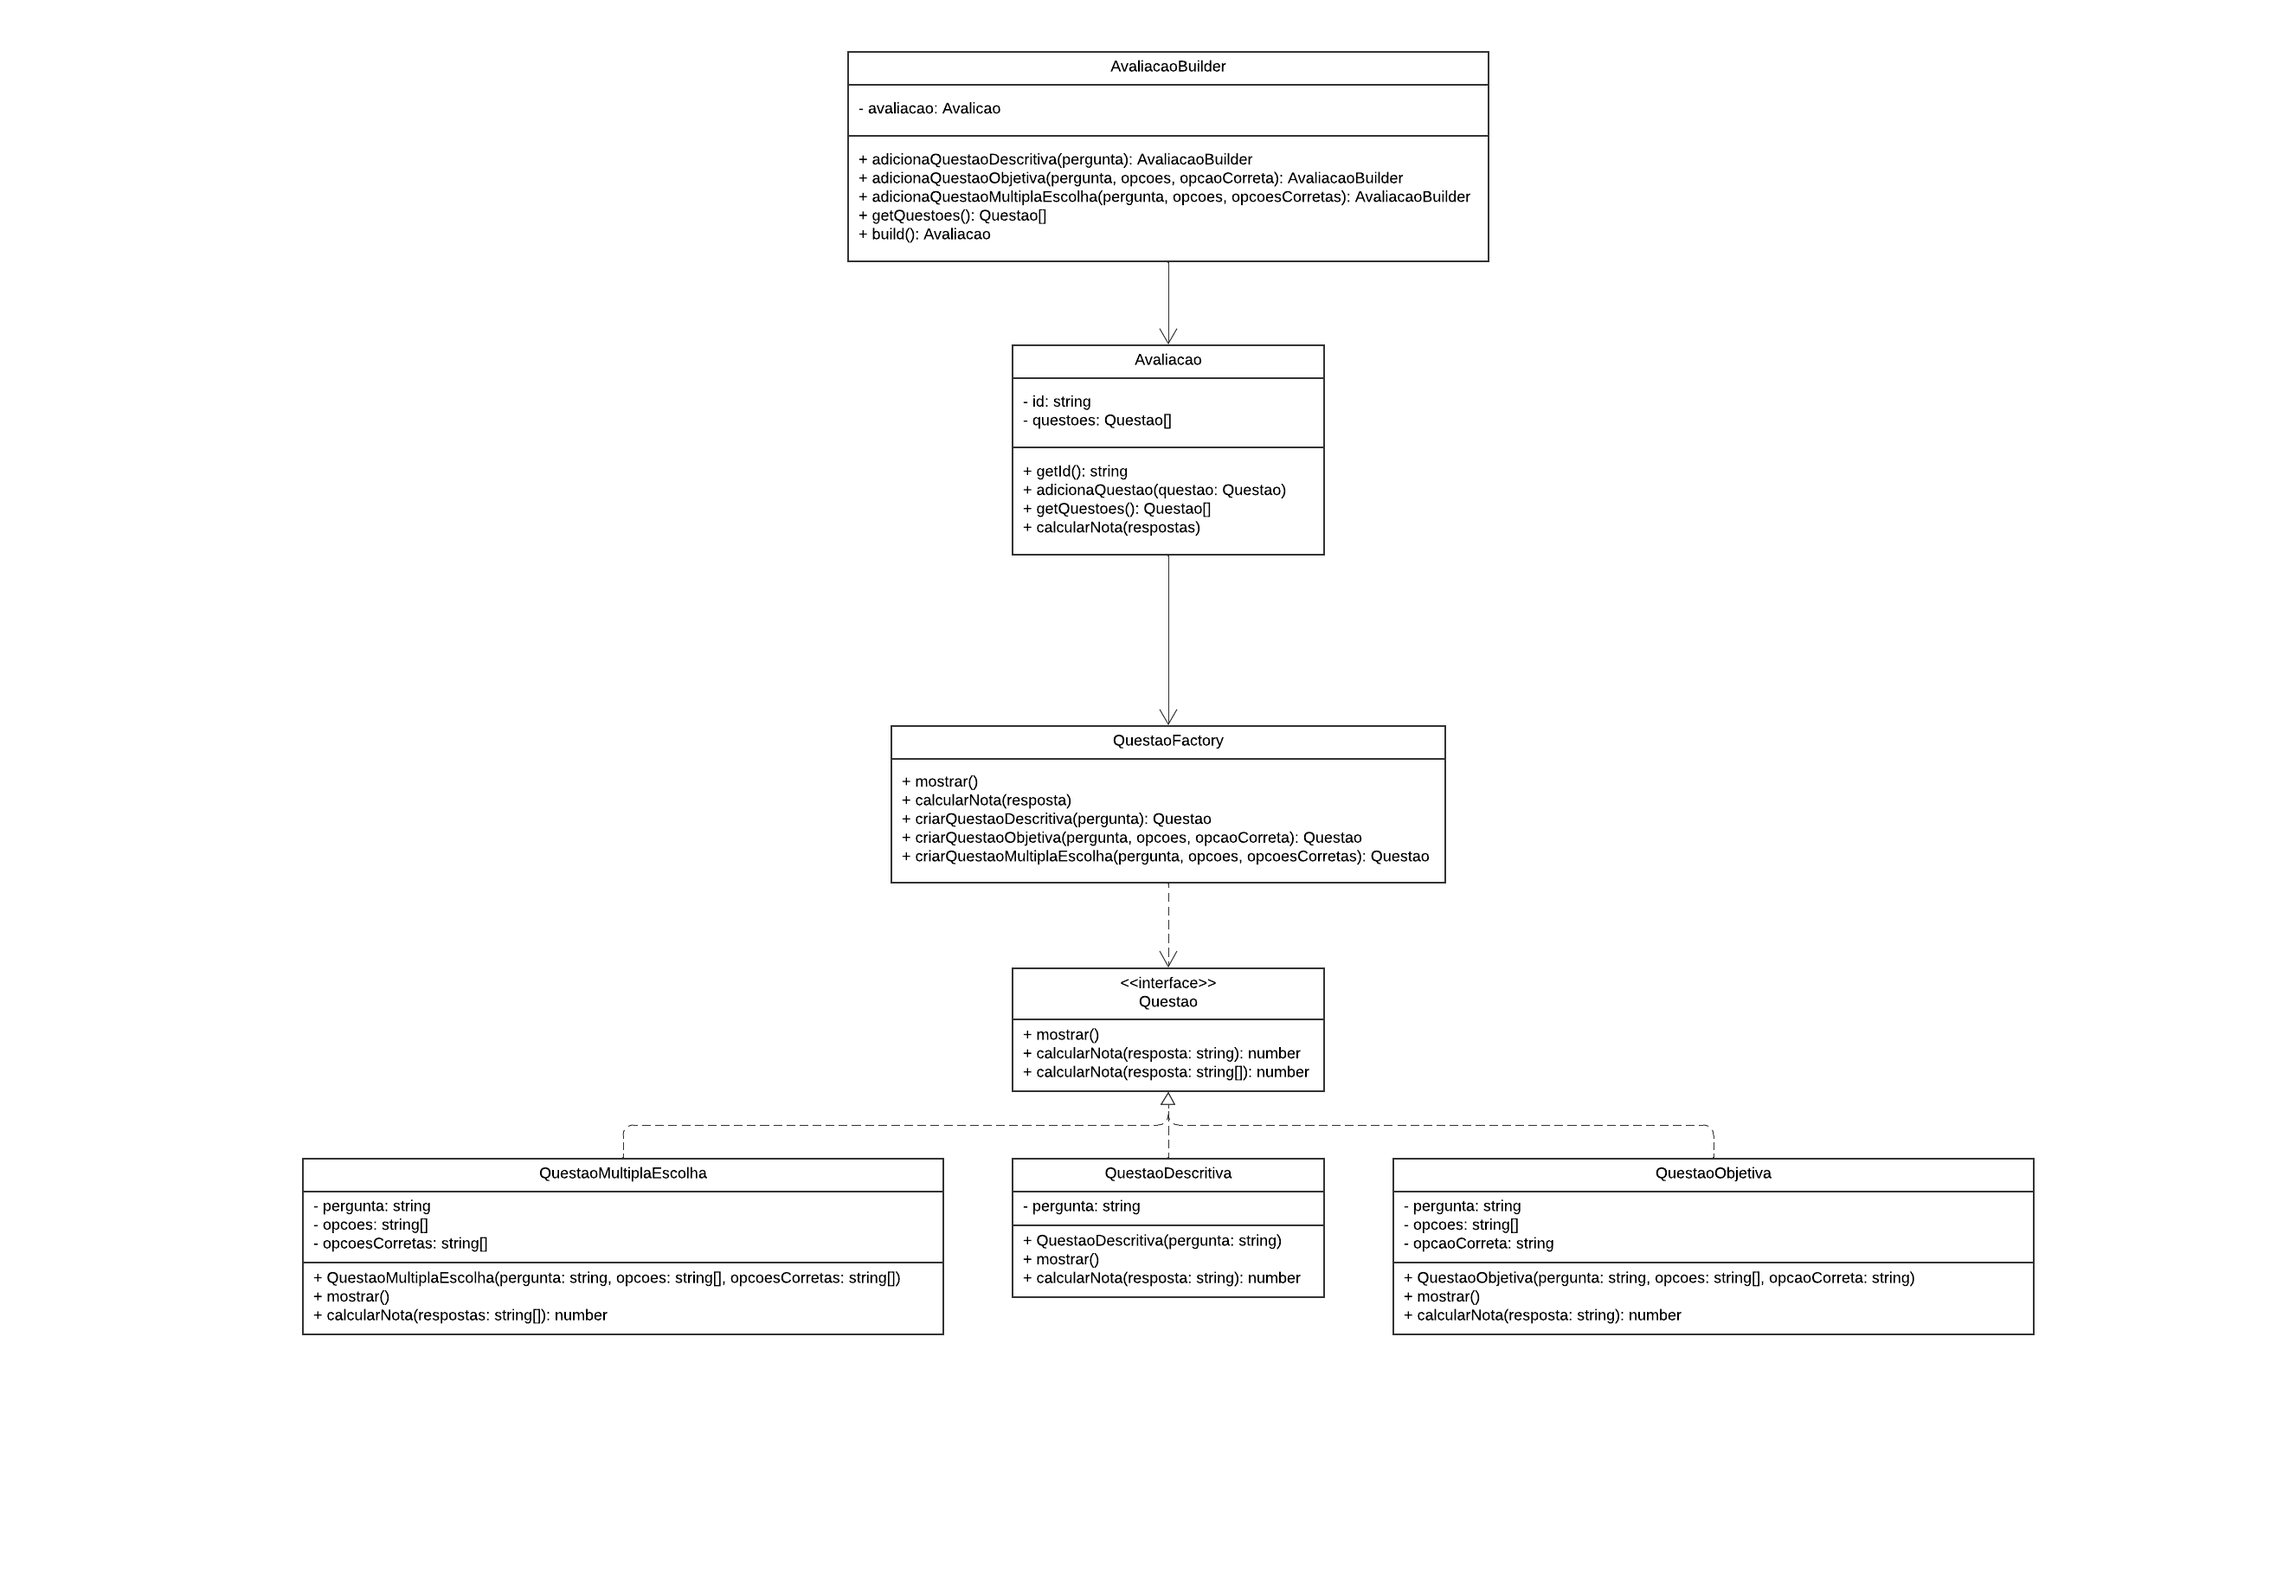
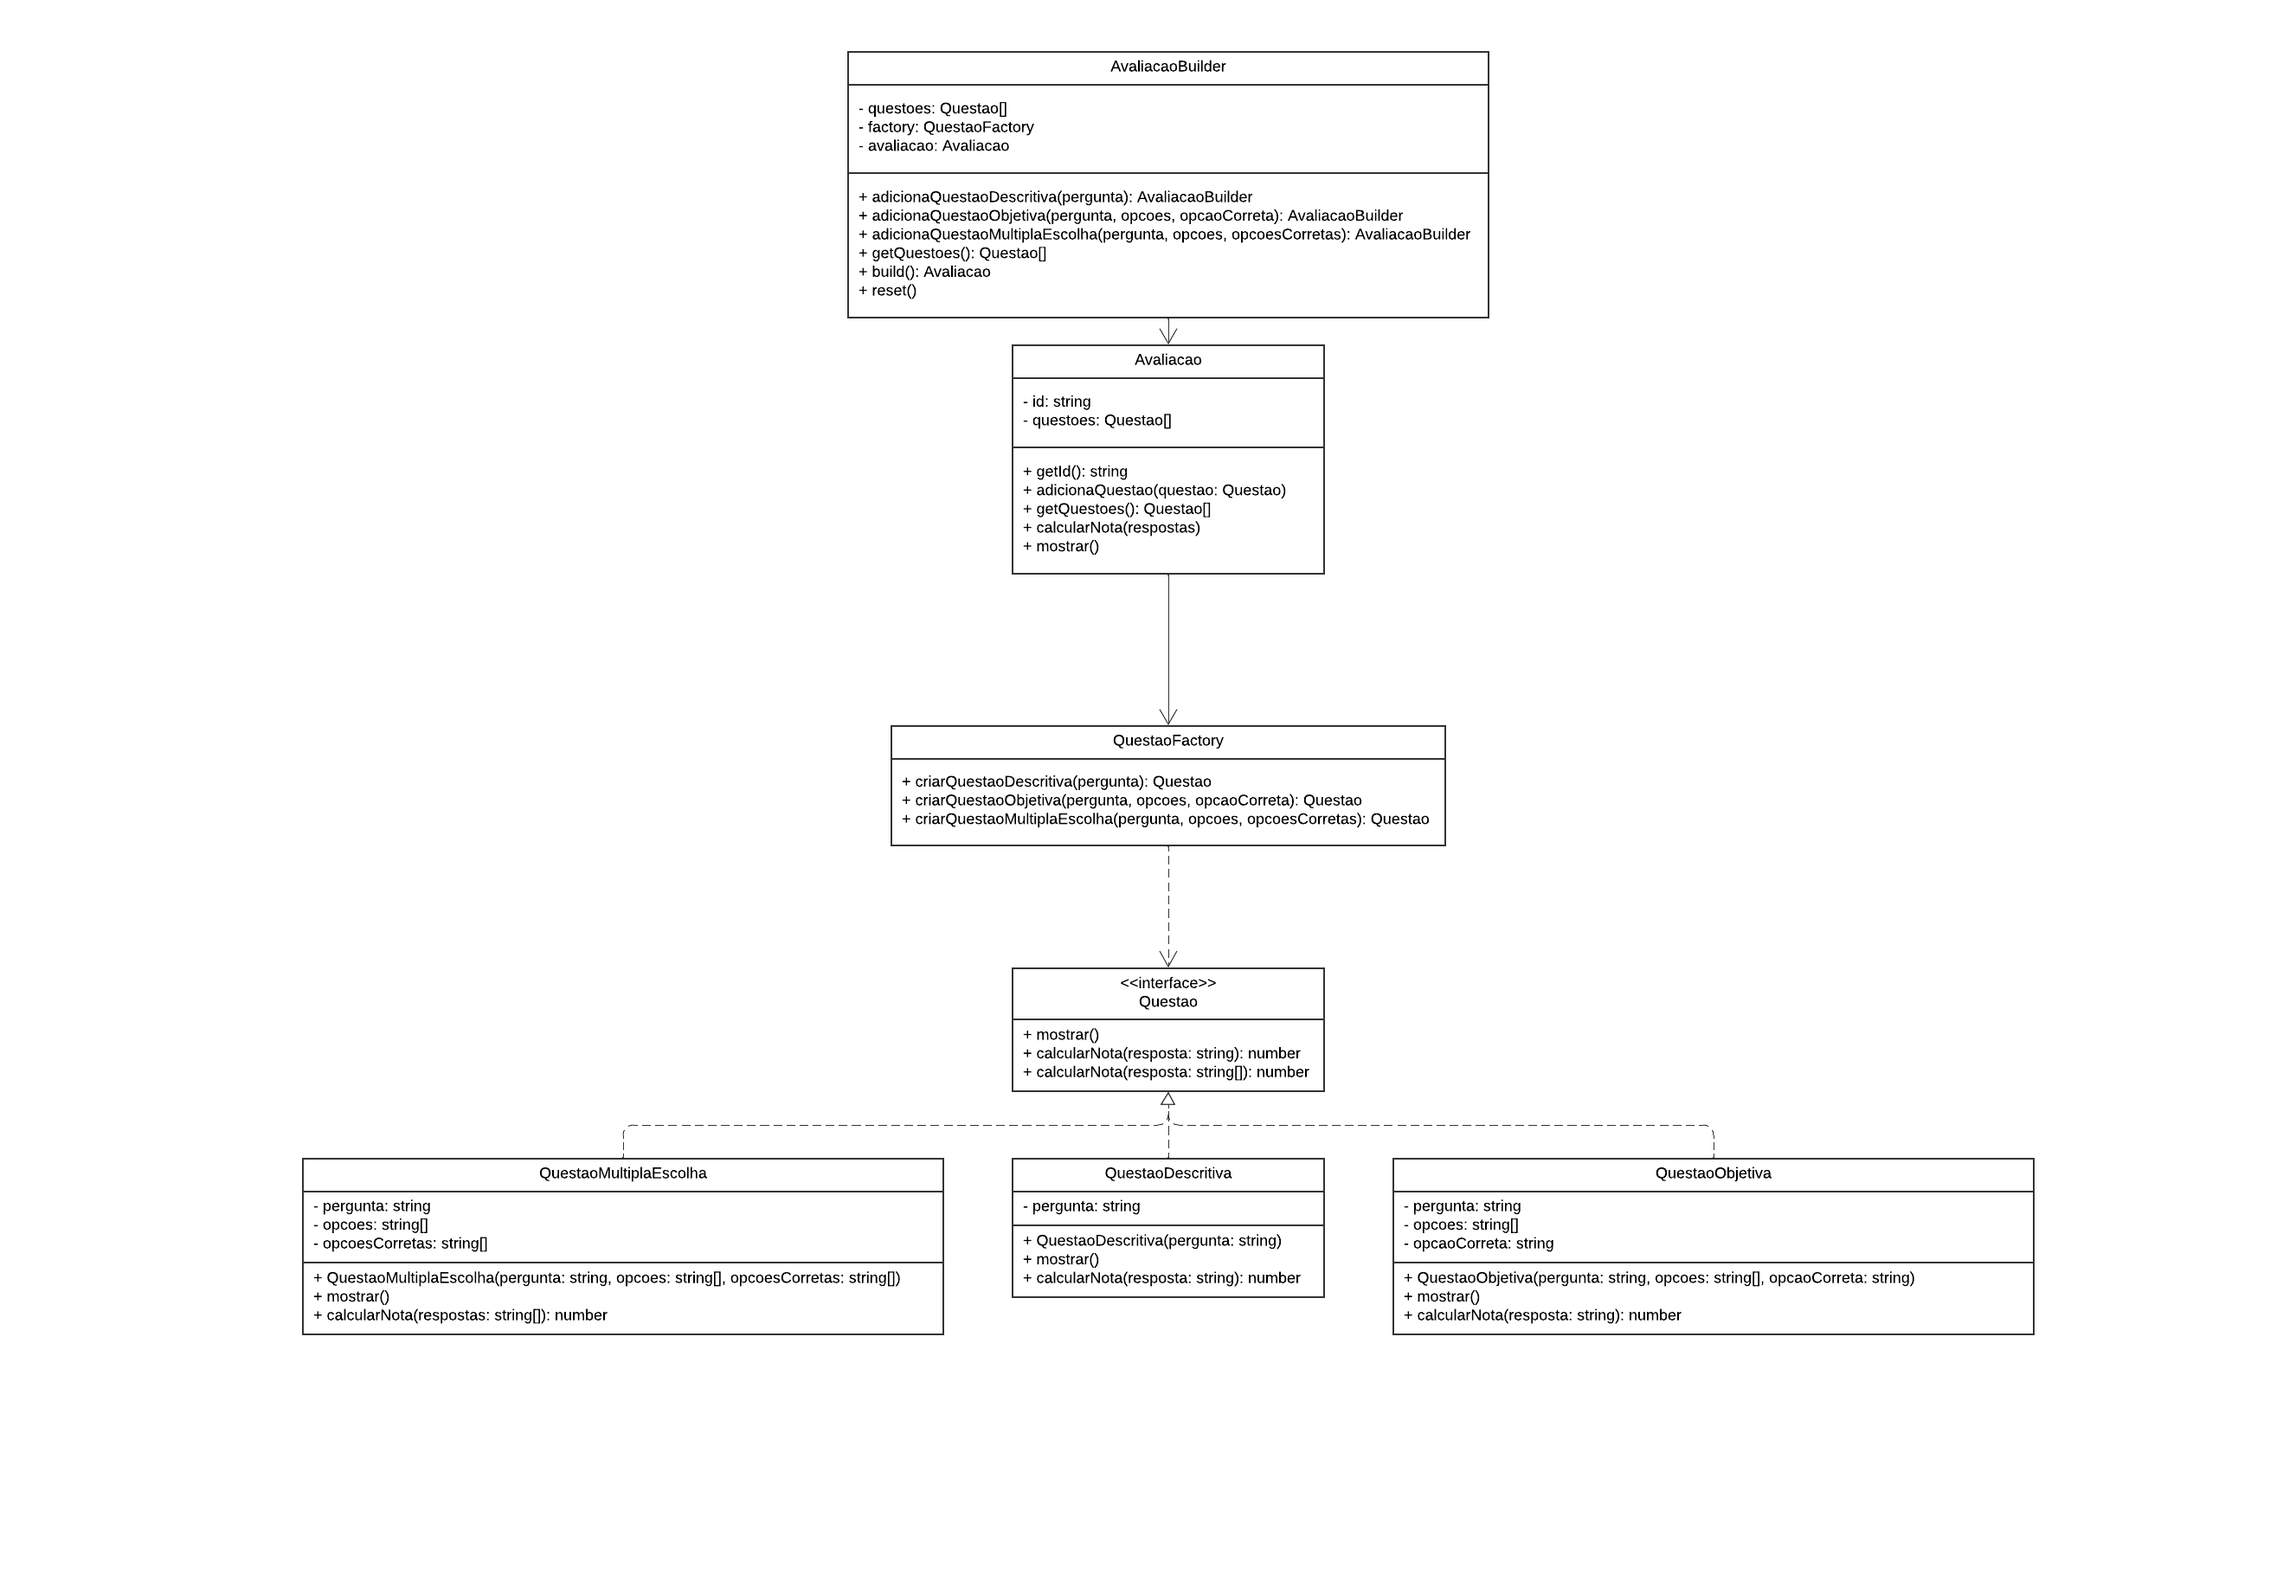
Ajuste final

Changed region(s): [[0.373, 0.0624, 0.6528, 0.1872], [0.4041, 0.468, 0.6217, 0.5616], [0.4352, 0.312, 0.5284, 0.3744]]

diff --git a/src/index.ts b/src/index.ts
@@ -1,50 +1,4 @@
-import { QuestaoMultiplaEscolha } from './classes/QuestaoMultiplaEscolha';
-import { QuestaoDescritiva } from './classes/QuestaoDescritiva';
-import { QuestaoObjetiva } from './classes/QuestaoObjetiva';
-import QuestaoFactory from './classes/QuestaoFactory';
-import Avaliacao from './classes/Avaliacao';
-import AvaliacaoBuilder from './classes/AvaliacaoBuilder';
-
-const factory = new QuestaoFactory()
-
-// Testando QuestaoMultiplaEscolha
-const questaoMultiplaEscolha = factory.criarQuestaoMultiplaEscolha(
-  "Quais dessas linguagens são de tipagem estática?",
-  ["JavaScript", "TypeScript", "Python", "Java"],
-  ["TypeScript", "Java"]
-);
-
-//console.log("Questão de Múltipla Escolha:");
-//questaoMultiplaEscolha.mostrar();
-//console.log(`Nota: ${questaoMultiplaEscolha.calcularNota(["TypeScript", "Java"])}\n`); 
-// Resposta deve ser 1
-
-// Testando QuestaoDescritiva
-const questaoDescritiva = factory.criarQuestaoDescritiva("Explique o conceito de herança em POO.");
-/*console.log("Questão Descritiva:");
-questaoDescritiva.mostrar();
-console.log(`Nota: ${questaoDescritiva.calcularNota("Herança é quando uma classe deriva de outra classe.")}\n`);*/ 
-//Resposta deve ser 0, pois a avaliação é manual
-
-// Testando QuestaoObjetiva
-const questaoObjetiva = factory.criarQuestaoObjetiva(
-  "Qual é a capital da França?",
-  ["Berlim", "Madrid", "Paris", "Lisboa"],
-  "Paris"
-);
-
-/*console.log("Questão Objetiva:");
-questaoObjetiva.mostrar();
-console.log(`Nota: ${questaoObjetiva.calcularNota("Paris")}`); */
-// Resposta deve ser 1
-
-// Testando uma resposta incorreta na QuestaoObjetiva
-//console.log(`Nota (resposta incorreta): ${questaoObjetiva.calcularNota("Madrid")}`); // Espera-se 0
-
-const avaliacao = new Avaliacao()
-avaliacao.adicionaQuestao(questaoMultiplaEscolha);
-avaliacao.adicionaQuestao(questaoDescritiva);
-avaliacao.adicionaQuestao(questaoObjetiva);
+import AvaliacaoBuilder from "./classes/AvaliacaoBuilder";
 
 const builder = new AvaliacaoBuilder();
 
@@ -63,13 +17,15 @@ const avaliacaoComBuilder = builder
   .build();
 
 avaliacaoComBuilder.mostrar();
+
 console.log(`Nota: ${avaliacaoComBuilder.calcularNota([
   "Encapsulamento é o conceito de ocultar detalhes internos.",
   "Berlim",
   ["Haskell", "Scala"]
 ])}`);
 
-avaliacao.mostrar()
-console.log(`Nota: ${avaliacao.calcularNota([["TypeScript", "Java"], "Herança é quando uma classe deriva de outra classe.", "Paris" ])}`)
-console.log(`Nota: ${avaliacao.calcularNota([["TypeScript", "Java"], "Herança é quando uma classe deriva de outra classe.", "Madrid" ])}`)
-
+console.log(`Nota: ${avaliacaoComBuilder.calcularNota([
+  "Encapsulamento é o conceito de ocultar detalhes internos.",
+  "Berlim",
+  ["Haskell"]
+])}`);

diff --git a/src/classes/AvaliacaoBuilder.ts b/src/classes/AvaliacaoBuilder.ts
@@ -1,13 +1,15 @@
-import { Questao } from '../interface/interface';
-import Avaliacao from './Avaliacao';
-import QuestaoFactory from './QuestaoFactory';
+import { Questao } from "../interface/interface";
+import Avaliacao from "./Avaliacao";
+import QuestaoFactory from "./QuestaoFactory";
 
 export default class AvaliacaoBuilder {
   private questoes: Questao[] = [];
   private factory: QuestaoFactory;
+  private avaliacao: Avaliacao;
 
   constructor() {
     this.factory = new QuestaoFactory();
+    this.avaliacao = new Avaliacao();
   }
 
   public adicionaQuestaoDescritiva(pergunta: string): AvaliacaoBuilder {
@@ -21,7 +23,11 @@ export default class AvaliacaoBuilder {
     opcoes: string[],
     opcaoCorreta: string
   ): AvaliacaoBuilder {
-    const questaoObjetiva = this.factory.criarQuestaoObjetiva(pergunta, opcoes, opcaoCorreta);
+    const questaoObjetiva = this.factory.criarQuestaoObjetiva(
+      pergunta,
+      opcoes,
+      opcaoCorreta
+    );
     this.questoes.push(questaoObjetiva);
     return this;
   }
@@ -31,7 +37,11 @@ export default class AvaliacaoBuilder {
     opcoes: string[],
     opcoesCorretas: string[]
   ): AvaliacaoBuilder {
-    const questaoMultiplaEscolha = this.factory.criarQuestaoMultiplaEscolha(pergunta, opcoes, opcoesCorretas);
+    const questaoMultiplaEscolha = this.factory.criarQuestaoMultiplaEscolha(
+      pergunta,
+      opcoes,
+      opcoesCorretas
+    );
     this.questoes.push(questaoMultiplaEscolha);
     return this;
   }
@@ -41,8 +51,12 @@ export default class AvaliacaoBuilder {
   }
 
   public build(): Avaliacao {
-    const avaliacao = new Avaliacao();
-    this.questoes.forEach((questao) => avaliacao.adicionaQuestao(questao));
-    return avaliacao;
+    this.questoes.forEach((questao) => this.avaliacao.adicionaQuestao(questao));
+    return this.avaliacao;
+  }
+
+  public reset(): void {
+    this.questoes = [];
+    this.avaliacao = new Avaliacao();
   }
 }

diff --git a/src/classes/QuestaoDescritiva.ts b/src/classes/QuestaoDescritiva.ts
@@ -1,4 +1,4 @@
-import { Questao } from '../interface/interface'
+import { Questao } from "../interface/interface";
 
 export class QuestaoDescritiva implements Questao {
   private pergunta: string;
@@ -11,9 +11,7 @@ export class QuestaoDescritiva implements Questao {
     console.log(this.pergunta);
   }
 
-
   calcularNota(respostaOuRespostas: string | string[]): number {
-    console.log("Avaliação manual necessária para a resposta descritiva.");
-    return 0; 
+    return respostaOuRespostas ? 1 : 0;
   }
 }
